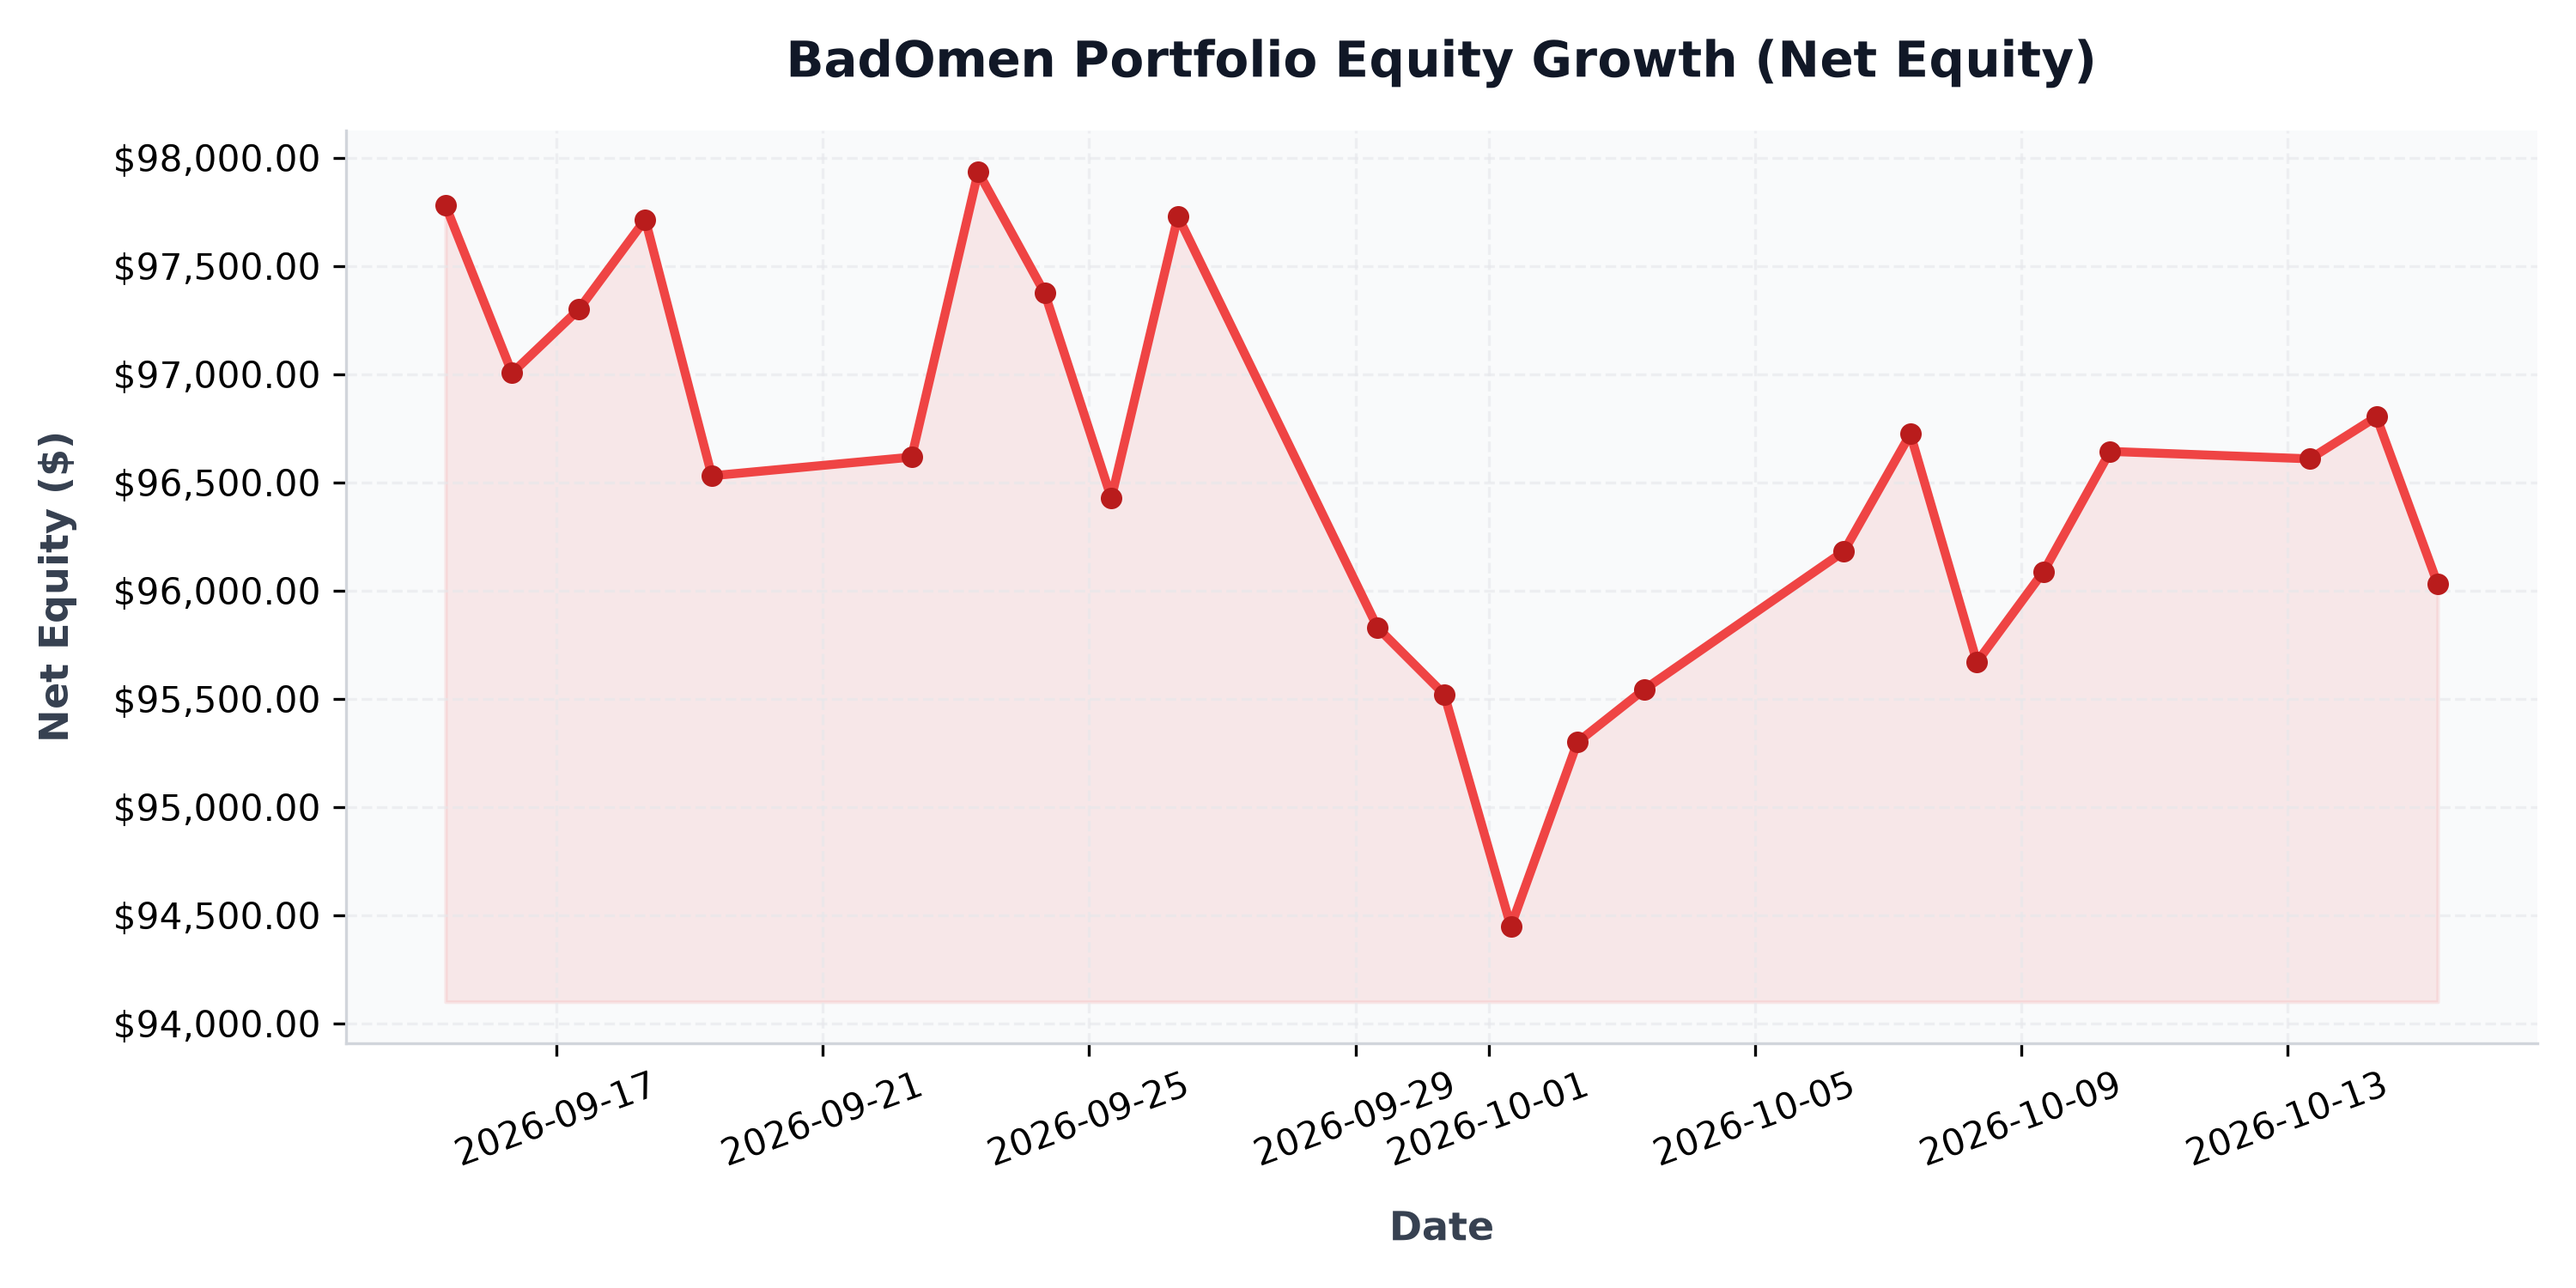
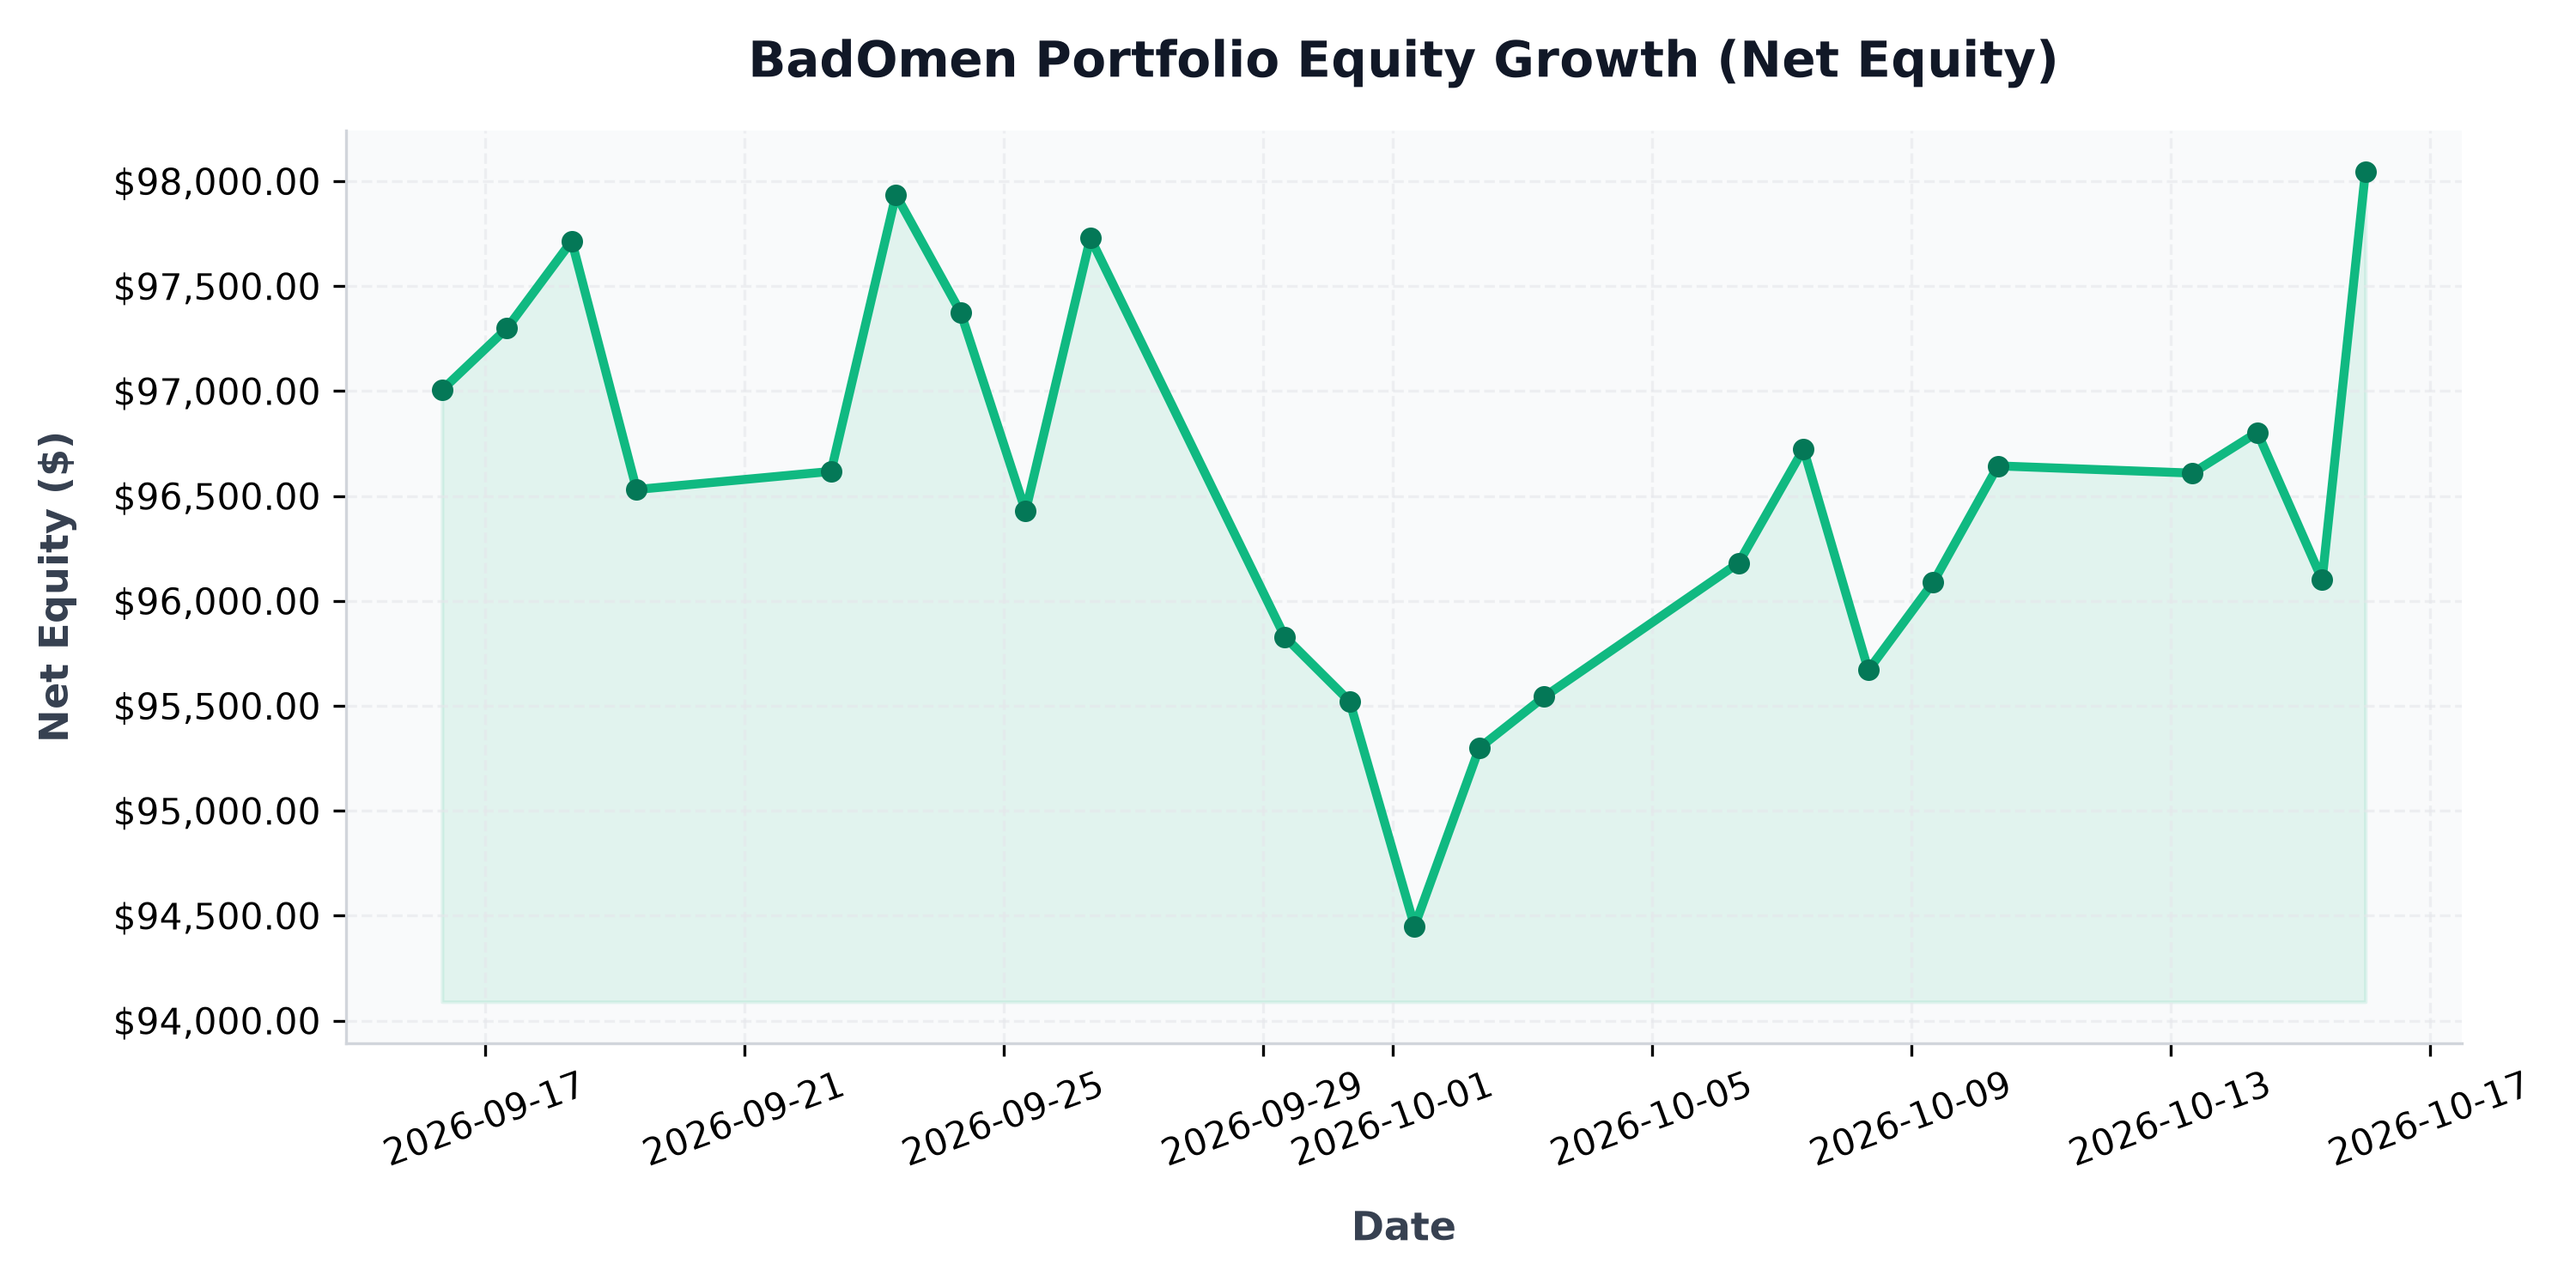
auto: daily portfolio status update - 2026-10-16 00:00:21

diff --git a/src/content/posts/portfolio-performance.md b/src/content/posts/portfolio-performance.md
@@ -1,6 +1,6 @@
 ---
 title: "BadOmen Algorithmic Portfolio Performance & PnL Report"
-pubDatetime: 2026-10-15T06:05:14.022929+08:00
+pubDatetime: 2026-10-16T00:00:21.148697+08:00
 description: "Live performance metrics, active holdings, and historic equity curve for the BadOmen automated paper trading portfolio."
 featured: true
 draft: false
@@ -16,11 +16,11 @@ Welcome to the live performance dashboard for **BadOmen**, our automated algorit
 ## 📊 Portfolio Summary
 | Performance Metric | Value | description |
 | :--- | :--- | :--- |
-| **Net Portfolio Equity** | **$96,030.97** | Total current liquidation value of cash and stock holdings |
-| **Total Unrealized P&L** | 🔴 **$-5,021.36** (-4.97%) | Total return of current open holdings |
+| **Net Portfolio Equity** | **$98,044.83** | Total current liquidation value of cash and stock holdings |
+| **Total Unrealized P&L** | 🔴 **$-3,005.66** (-2.97%) | Total return of current open holdings |
 | **Cash Balance** | $24,224.56 | Idle reserve currency available for limit orders |
-| **Buying Power** | $297,956.18 | Margin-backed buying power for entry allocations |
-| **Report Updated** | `2026-10-15 06:05:14 (SGT)` | Timestamp of daily execution and sync run |
+| **Buying Power** | $303,595.00 | Margin-backed buying power for entry allocations |
+| **Report Updated** | `2026-10-16 00:00:21 (SGT)` | Timestamp of daily execution and sync run |
 
 ## 📈 Net Equity Growth Curve
 The chart below illustrates the historical performance of the account starting from our baseline capital funding of $100,000.00.
@@ -35,35 +35,35 @@ The chart below illustrates the exposure of our currently held active positions 
 ## 💼 Current Position Holdings
 | Ticker | Industry | Shares Owned | Average Entry Cost | Current Price | Unrealized P&L | Return (%) |
 | :--- | :--- | :--- | :--- | :--- | :--- | :--- |
-| **AN** | Auto & Truck Dealerships | 5 | $188.51 | $153.19 | 🔴 $-176.59 | -18.74% |
-| **AVGO** | Semiconductors | 1 | $385.71 | $345.31 | 🔴 $-40.40 | -10.47% |
-| **BIRK** | Footwear & Accessories | 407 | $37.32 | $33.92 | 🔴 $-1,382.87 | -9.11% |
-| **BLBD** | Farm & Heavy Construction Machinery | 231 | $65.52 | $56.76 | 🔴 $-2,022.63 | -13.36% |
-| **BVN** | Other Precious Metals & Mining | 32 | $31.88 | $30.52 | 🔴 $-43.36 | -4.25% |
-| **CELH** | Beverages - Non-Alcoholic | 33 | $29.71 | $27.15 | 🔴 $-84.57 | -8.62% |
-| **CPRI** | Luxury Goods | 1042 | $14.55 | $15.00 | 🟢 +$467.02 | +3.08% |
-| **DUOL** | Software - Application | 14 | $131.04 | $139.00 | 🟢 +$111.38 | +6.07% |
-| **FIS** | Information Technology Services | 23 | $41.79 | $34.83 | 🔴 $-160.17 | -16.66% |
-| **GDDY** | Software - Infrastructure | 6 | $76.21 | $103.36 | 🟢 +$162.90 | +35.62% |
-| **GDS** | Information Technology Services | 30 | $32.77 | $25.55 | 🔴 $-216.60 | -22.03% |
-| **GGAL** | Banks - Regional | 17 | $56.04 | $36.23 | 🔴 $-336.76 | -35.35% |
-| **GOOGL** | Internet Content & Information | 3 | $319.44 | $347.51 | 🟢 +$84.21 | +8.79% |
-| **GPI** | Auto & Truck Dealerships | 3 | $316.15 | $228.37 | 🔴 $-263.34 | -27.77% |
-| **HUBS** | Software - Application | 8 | $221.18 | $226.90 | 🟢 +$45.75 | +2.59% |
-| **ITRI** | Scientific & Technical Instruments | 12 | $81.80 | $84.45 | 🟢 +$31.80 | +3.24% |
-| **KBR** | Engineering & Construction | 27 | $36.23 | $35.23 | 🔴 $-27.08 | -2.77% |
-| **NESR** | Oil & Gas Equipment & Services | 34 | $28.74 | $19.83 | 🔴 $-302.94 | -31.00% |
-| **NU** | Banks - Regional | 57 | $11.60 | $14.85 | 🟢 +$185.33 | +28.03% |
-| **ON** | Semiconductors | 10 | $90.45 | $72.65 | 🔴 $-178.05 | -19.68% |
-| **ORCL** | Software - Infrastructure | 5 | $181.95 | $130.37 | 🔴 $-257.88 | -28.35% |
-| **PATH** | Software - Infrastructure | 38 | $10.25 | $13.02 | 🟢 +$105.26 | +27.02% |
-| **PYPL** | Credit Services | 17 | $56.05 | $56.09 | 🟢 +$0.68 | +0.07% |
-| **QCOM** | Semiconductors | 15 | $193.68 | $172.01 | 🔴 $-325.12 | -11.19% |
-| **SMCI** | Computer Hardware | 22 | $29.25 | $35.71 | 🟢 +$142.12 | +22.09% |
-| **SRE** | Utilities - Diversified | 57 | $84.75 | $81.99 | 🔴 $-157.46 | -3.26% |
-| **T** | Telecom Services | 47 | $20.85 | $23.03 | 🟢 +$102.46 | +10.46% |
-| **WEN** | Restaurants | 257 | $8.02 | $6.39 | 🔴 $-419.87 | -20.36% |
-| **ZG** | Internet Content & Information | 31 | $31.35 | $29.27 | 🔴 $-64.58 | -6.64% |
+| **AN** | Auto & Truck Dealerships | 5 | $188.51 | $161.32 | 🔴 $-135.94 | -14.42% |
+| **AVGO** | Semiconductors | 1 | $385.71 | $340.18 | 🔴 $-45.53 | -11.81% |
+| **BIRK** | Footwear & Accessories | 407 | $37.32 | $35.39 | 🔴 $-784.54 | -5.17% |
+| **BLBD** | Farm & Heavy Construction Machinery | 231 | $65.52 | $57.56 | 🔴 $-1,837.83 | -12.14% |
+| **BVN** | Other Precious Metals & Mining | 32 | $31.88 | $31.11 | 🔴 $-24.64 | -2.42% |
+| **CELH** | Beverages - Non-Alcoholic | 33 | $29.71 | $27.66 | 🔴 $-67.57 | -6.89% |
+| **CPRI** | Luxury Goods | 1042 | $14.55 | $15.60 | 🟢 +$1,092.22 | +7.20% |
+| **DUOL** | Software - Application | 14 | $131.04 | $146.13 | 🟢 +$211.27 | +11.52% |
+| **FIS** | Information Technology Services | 23 | $41.79 | $36.30 | 🔴 $-126.27 | -13.14% |
+| **GDDY** | Software - Infrastructure | 6 | $76.21 | $106.99 | 🟢 +$184.68 | +40.39% |
+| **GDS** | Information Technology Services | 30 | $32.77 | $24.45 | 🔴 $-249.45 | -25.37% |
+| **GGAL** | Banks - Regional | 17 | $56.04 | $36.18 | 🔴 $-337.61 | -35.44% |
+| **GOOGL** | Internet Content & Information | 3 | $319.44 | $349.61 | 🟢 +$90.50 | +9.44% |
+| **GPI** | Auto & Truck Dealerships | 3 | $316.15 | $242.21 | 🔴 $-221.82 | -23.39% |
+| **HUBS** | Software - Application | 8 | $221.18 | $239.57 | 🟢 +$147.11 | +8.31% |
+| **ITRI** | Scientific & Technical Instruments | 12 | $81.80 | $83.84 | 🟢 +$24.48 | +2.49% |
+| **KBR** | Engineering & Construction | 27 | $36.23 | $36.11 | 🔴 $-3.32 | -0.34% |
+| **NESR** | Oil & Gas Equipment & Services | 34 | $28.74 | $19.41 | 🔴 $-317.22 | -32.46% |
+| **NU** | Banks - Regional | 57 | $11.60 | $14.95 | 🟢 +$190.75 | +28.85% |
+| **ON** | Semiconductors | 10 | $90.45 | $73.53 | 🔴 $-169.25 | -18.71% |
+| **ORCL** | Software - Infrastructure | 5 | $181.95 | $133.62 | 🔴 $-241.65 | -26.56% |
+| **PATH** | Software - Infrastructure | 38 | $10.25 | $13.46 | 🟢 +$121.79 | +31.27% |
+| **PYPL** | Credit Services | 17 | $56.05 | $56.35 | 🟢 +$5.10 | +0.53% |
+| **QCOM** | Semiconductors | 15 | $193.68 | $176.12 | 🔴 $-263.55 | -9.07% |
+| **SMCI** | Computer Hardware | 22 | $29.25 | $34.20 | 🟢 +$108.90 | +16.92% |
+| **SRE** | Utilities - Diversified | 57 | $84.75 | $81.83 | 🔴 $-166.58 | -3.45% |
+| **T** | Telecom Services | 47 | $20.85 | $23.66 | 🟢 +$131.84 | +13.45% |
+| **WEN** | Restaurants | 257 | $8.02 | $6.75 | 🔴 $-326.06 | -15.81% |
+| **ZG** | Internet Content & Information | 31 | $31.35 | $31.50 | 🟢 +$4.55 | +0.47% |
 
 ## 🔴 Recent Realized Trades
 | Ticker | Shares Sold | Entry Price | Exit Price | Strategy Trigger | Realized Return | Exit Date |
